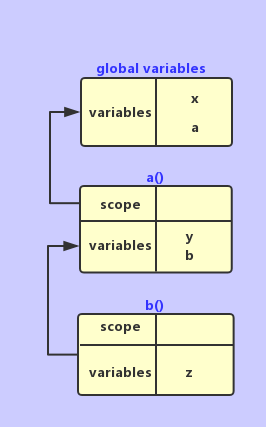
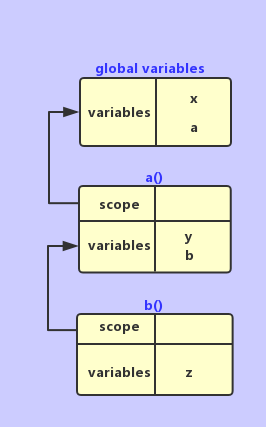
post

diff --git a/_posts/2018-03-08-javascript-scope.md b/_posts/2018-03-08-javascript-scope.md
@@ -151,7 +151,7 @@ b.scope -> a.variables
 
 b.variables: z
 
-![js-scope](https://pigfly88.github.io/images/js-scope.png?v=1)
+![js-scope](https://pigfly88.github.io/images/js-scope.png?v=2)
 
 ### 参考资料
 > 1.   JavaScript for PHP Developers
